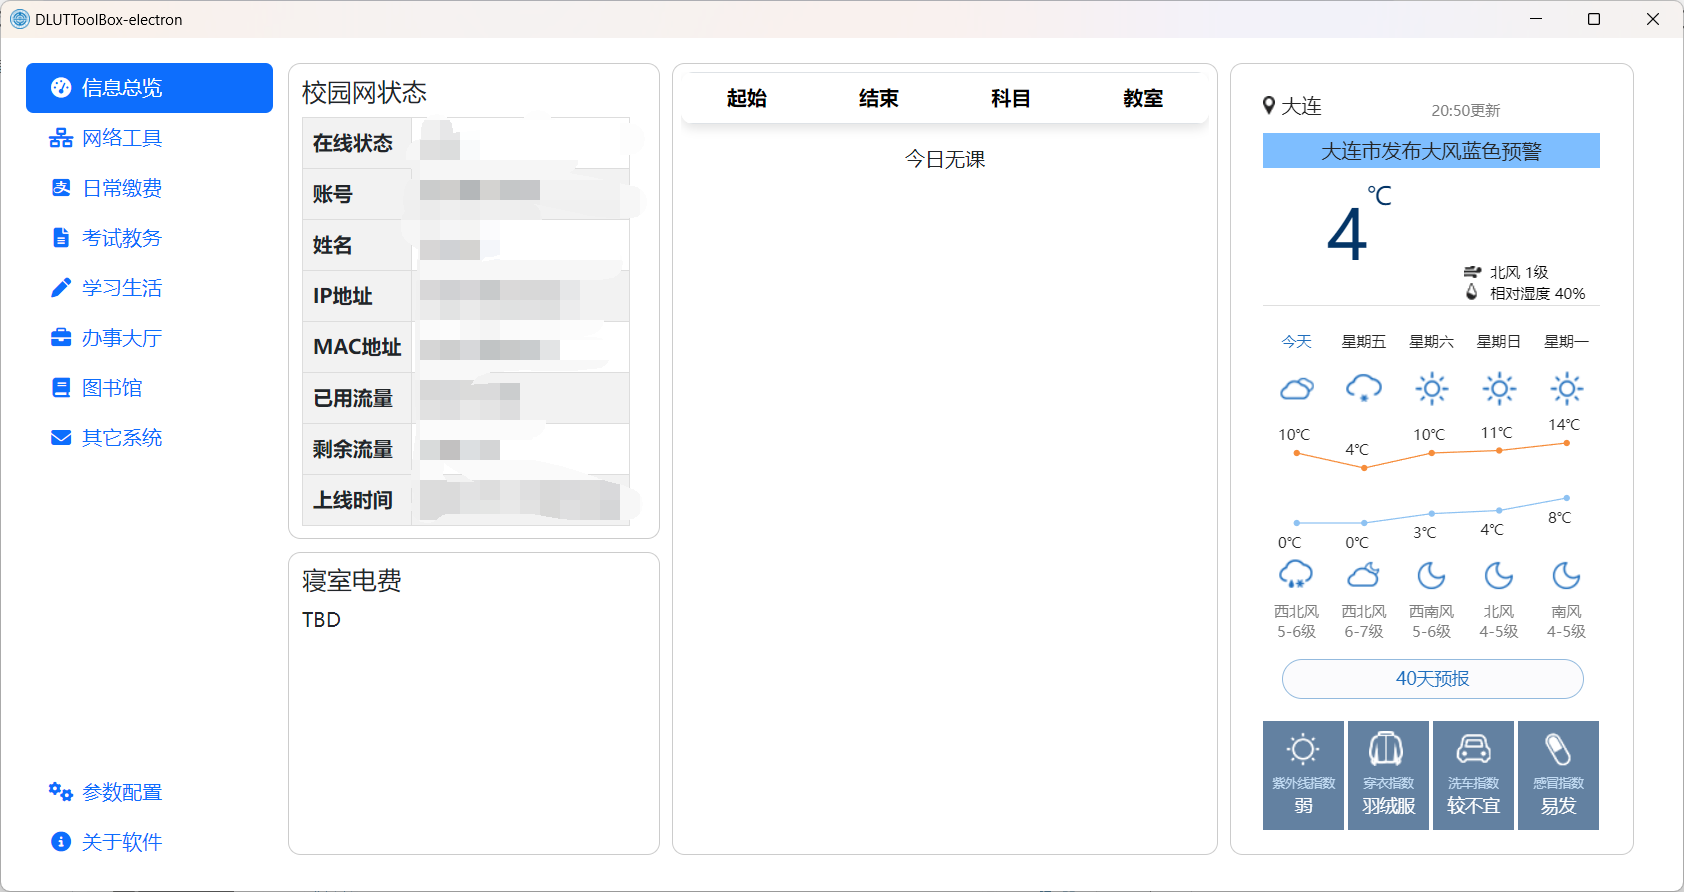
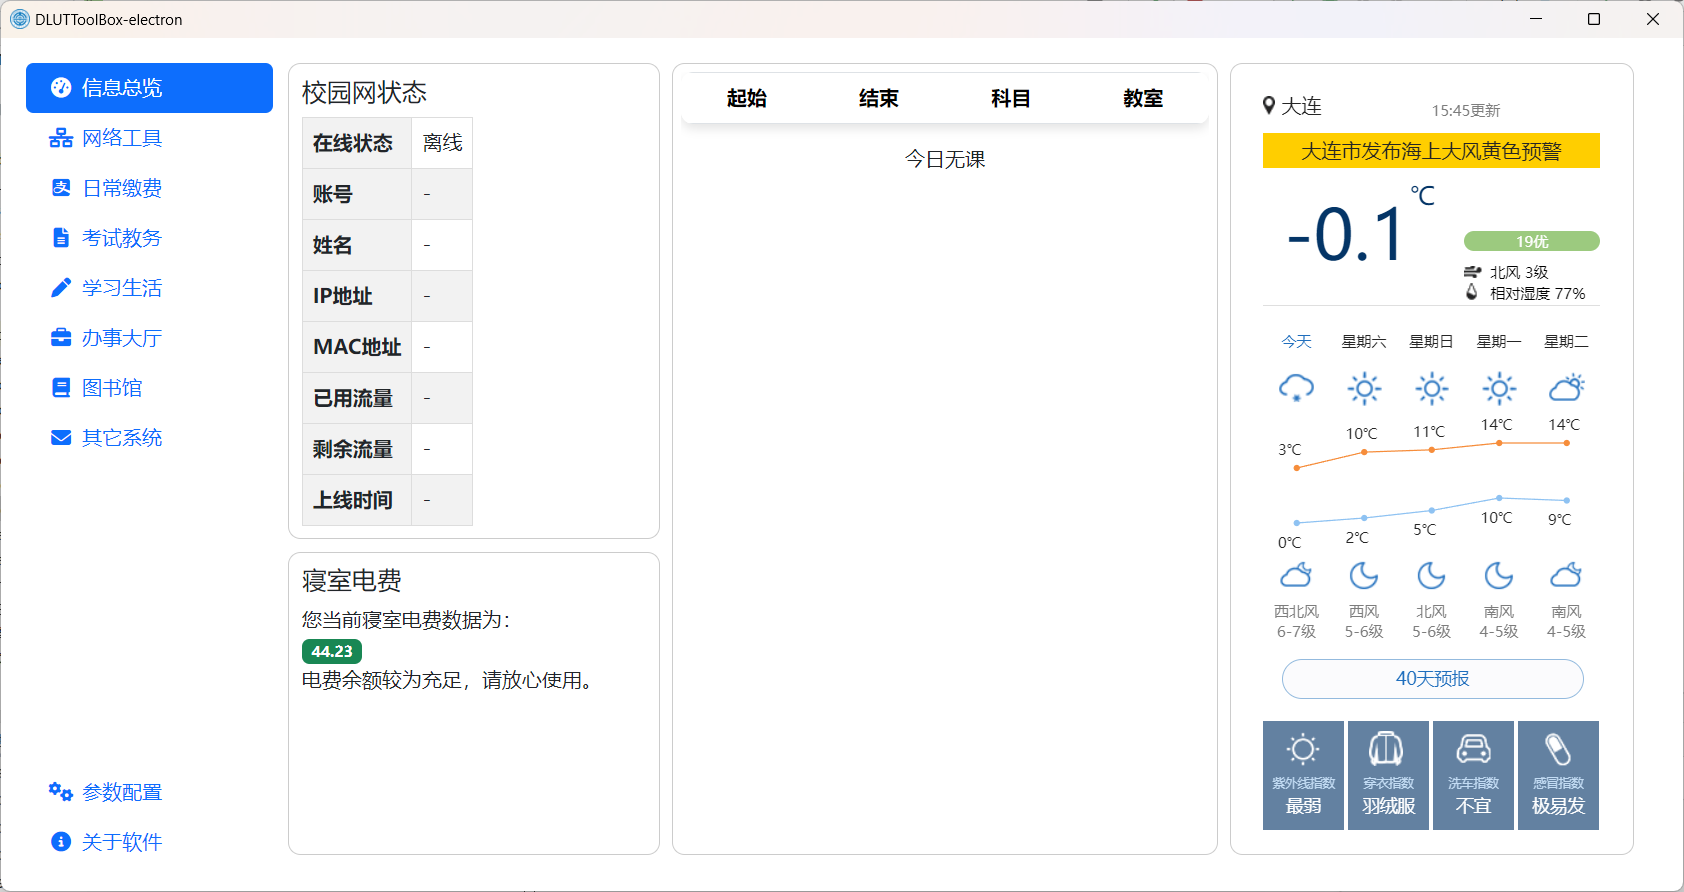
V1.2.4 电费查询功能上线

diff --git a/index.js b/index.js
@@ -169,12 +169,12 @@ function creteWindowForUrl(url) {
 app.whenReady().then(() => {
     //查询电费
     ipcMain.on('query_eleinfo', (baseevent) => {
-        const currentHour = new Date().getHours();
+        let currentHour = new Date().getHours();
         if (currentHour >= 23 || currentHour < 1) {
             baseevent.sender.send('query_eleinfo', "⚠当前不在电费查询时间段⚠");
             return;
         }
-        const childWin = new BrowserWindow({
+        let childWinc = new BrowserWindow({
             width: 200,
             height: 100,
             show: false,
@@ -189,18 +189,22 @@ app.whenReady().then(() => {
 
         ipcMain.on('message', (event, arg) => {
             baseevent.sender.send("query_eleinfo", arg)
-            childWin.close()
+            try {
+                childWinc.close()
+            }catch (e){
+
+            }
         });
 
-        childWin.webContents.userAgent = "weishao"
+        childWinc.webContents.userAgent = "weishao"
 
-        childWin.webContents.on('dom-ready', () => {
-            const currentURL = childWin.webContents.getURL();
+        childWinc.webContents.on('dom-ready', () => {
+            const currentURL = childWinc.webContents.getURL();
             if (currentURL.includes("api.m.dlut.edu.cn/login?")) {
-                childWin.webContents.executeJavaScript("username.value='" + store.get("username") + "';password.value='" + store.get("password") + "';btnpc.disabled='';btnpc.click()");
+                childWinc.webContents.executeJavaScript("username.value='" + store.get("username") + "';password.value='" + store.get("password") + "';btnpc.disabled='';btnpc.click()");
             }
             if (currentURL.includes("homerj") && !currentURL.includes("api")) {
-                childWin.webContents.executeJavaScript("window.location.href='https://card.m.dlut.edu.cn/elepay/openElePay?openid='+openid[0].value+'&displayflag=1&id=30'");
+                childWinc.webContents.executeJavaScript("window.location.href='https://card.m.dlut.edu.cn/elepay/openElePay?openid='+openid[0].value+'&displayflag=1&id=30'");
             }
             if (currentURL.includes("openElePay")) {
                 const queryScriptPath = path.join(__dirname, 'js/query.js');
@@ -210,12 +214,12 @@ app.whenReady().then(() => {
                         return;
                     }
                     // 执行外部文件内容
-                    childWin.webContents.executeJavaScript(data);
+                    childWinc.webContents.executeJavaScript(data);
                 });
             }
         });
 
-        childWin.loadURL("https://api.m.dlut.edu.cn/oauth/authorize?client_id=19b32196decf419a&redirect_uri=https%3A%2F%2Fcard.m.dlut.edu.cn%2Fhomerj%2FopenRjOAuthPage&response_type=code&scope=base_api&state=weishao");
+        childWinc.loadURL("https://api.m.dlut.edu.cn/oauth/authorize?client_id=19b32196decf419a&redirect_uri=https%3A%2F%2Fcard.m.dlut.edu.cn%2Fhomerj%2FopenRjOAuthPage&response_type=code&scope=base_api&state=weishao");
     });
 
 

diff --git a/js/main.js b/js/main.js
@@ -142,6 +142,7 @@ function loadNetworkDataForNetwork() {
 
 function loadEleinfo(notification) {
     var ele = $(".eleinfo")
+    ele.empty()
     ele.append("<p>正在加载电费数据。。。。</p>")
     ipcRenderer.on('query_eleinfo', (event, response) => {
         ele.empty()

diff --git a/README.md b/README.md
@@ -1,6 +1,6 @@
 # DLUTToolBox-electron
 
-为了支持多平台，于是乎对之前的工具箱使用electron进行重构。支持Windows、Linux、MacOS。目前除电费查询外的基本功能已经完成，正在打磨细节逐步完善中。。。。。。
+为了支持多平台，于是乎对之前的工具箱使用electron进行重构。支持Windows、Linux、MacOS。目前基本功能已经完成，正在打磨细节逐步完善中。。。。。。
 
 苹果设备由于证书原因可能需要在访达中右键打开或加入信任列表（ps：我没有测试用的苹果设备，是在VMWare装的MacOS上测试的，更不可能有appleid和开发者帐号了。。）
 ### Windows
